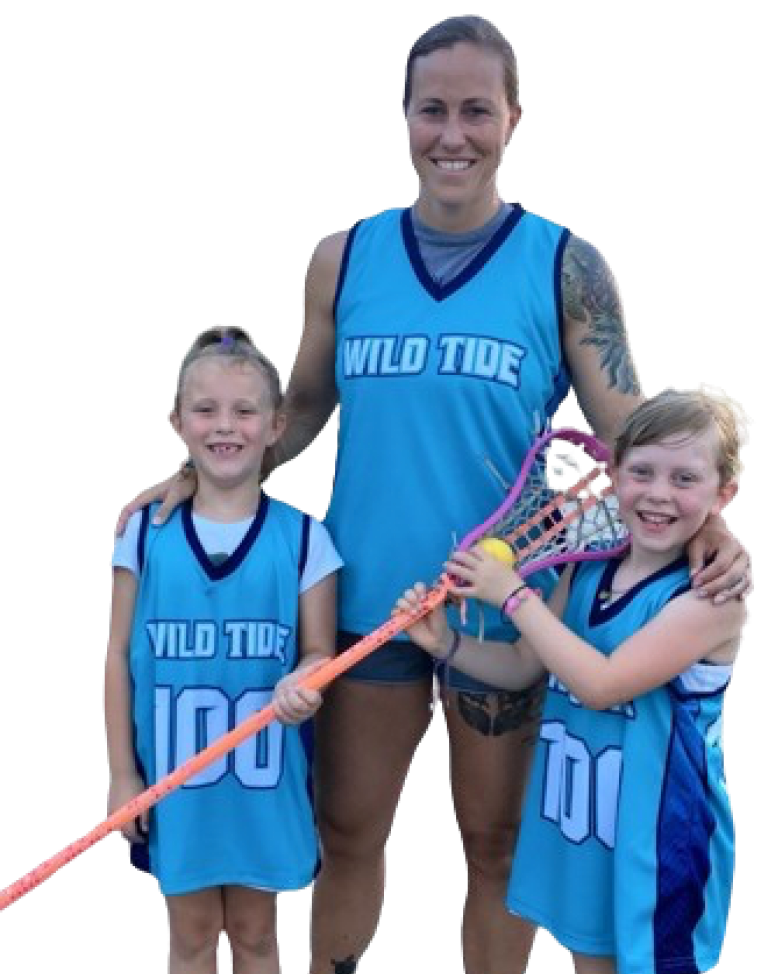
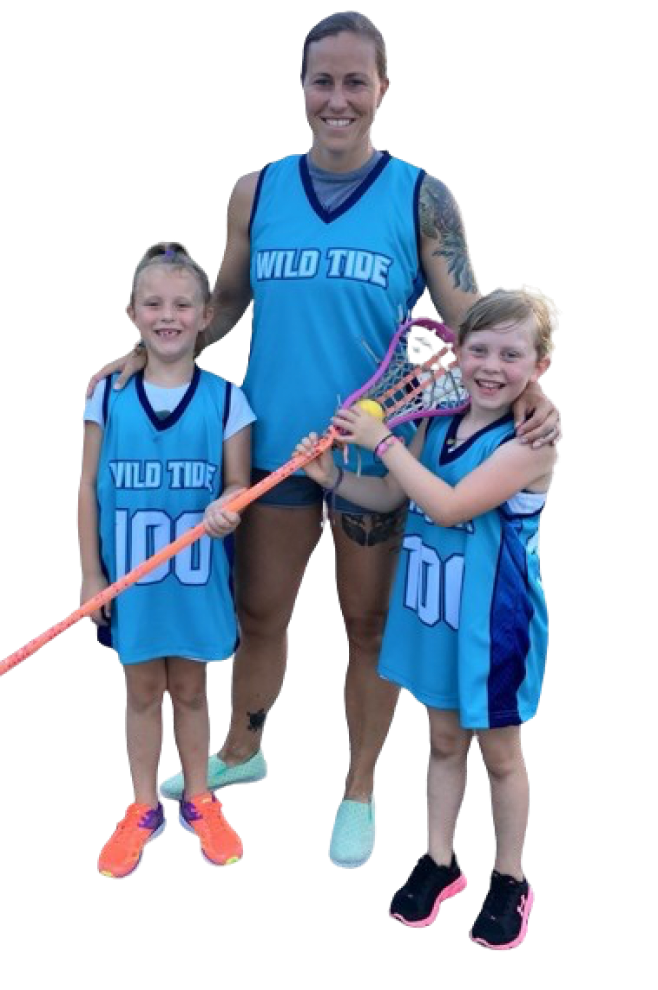
Updates
Correcting email address and replacing photos to full size

diff --git a/index.html b/index.html
@@ -269,9 +269,9 @@
 
             .findGirlsImage {
                 position: absolute;
-                height: 33vw;
-                left: 1vw;
-                top: 154vw;
+                height: 30vw;
+                left: 4.75vw;
+                top: 157vw;
 
             }
 
@@ -286,9 +286,9 @@
 
             .findBoysImage {
                 position: absolute;
-                width: 17.5vw;
-                left: 41.5vw;
-                top: 154.2vw;
+                width: 16vw;
+                left: 42vw;
+                top: 153.85vw;
 
             }
 
@@ -305,17 +305,17 @@
             .findDevImage {
                 position: absolute;
                 height: 32vw;
-                left: 72vw;
-                top: 155vw;
+                left: 73.5vw;
+                top: 156.1vw;
 
             }
 
             .boysFindButton {
                 position: absolute;
                 width: 20vw;
-                height: 4.7vw;
+                height: 3.5vw;
                 left: 38vw;
-                top: 149vw;
+                top: 150vw;
 
                 background: #071E5A;
                 border-radius: 10px;
@@ -324,7 +324,7 @@
                 font-style: normal;
                 font-weight: 600;
                 font-size: 1.5vw;
-                line-height: 3.5vw;
+                line-height: 3vw;
                 text-align: center;
 
                 color: #FFFFFF;
@@ -333,9 +333,9 @@
             .girlsFindButton {
                 position: absolute;
                 width: 20vw;
-                height: 4.7vw;
+                height: 3.5vw;
                 left: 7vw;
-                top: 149vw;
+                top: 150vw;
 
                 background: #071E5A;
                 border-radius: 10px;
@@ -344,7 +344,7 @@
                 font-style: normal;
                 font-weight: 600;
                 font-size: 1.5vw;
-                line-height: 3.5vw;
+                line-height: 3vw;
                 text-align: center;
 
                 color: #FFFFFF;
@@ -353,9 +353,9 @@
             .devFindButton {
                 position: absolute;
                 width: 20vw;
-                height: 4.7vw;
+                height: 3.5vw;
                 left: 70vw;
-                top: 149vw;
+                top: 150vw;
 
                 background: #071E5A;
                 border-radius: 10px;
@@ -364,7 +364,7 @@
                 font-style: normal;
                 font-weight: 600;
                 font-size: 1.5vw;
-                line-height: 3.5vw;
+                line-height: 3vw;
                 text-align: center;
 
                 color: #FFFFFF;
@@ -968,7 +968,7 @@
                 <img src="sarahsKitchenSponsor.png" class="sponsorSarahsKitchen">
             </a>
             <p class="sponsorContact">Interested in fundraising or donating to WildTide?<br/> 
-                Please reach out to our Fundraising Coordinator, <a href="mailto:Janet@bluecoastreality.com">Janet@bluecoastreality.com</a>
+                Please reach out to our Fundraising Coordinator, <a href="mailto:Janet@BlueCoastRealty.com">Janet@BlueCoastRealty.com</a>
             </p>
         </div>
         <div class="footerBar">

diff --git a/pinkOutPage.html b/pinkOutPage.html
@@ -327,7 +327,7 @@
             <img src="pinkOutHeroImageMobile.png" class="pinkOutHeroImageMobile">
         </div>
         <div>
-            <a href="mailto:Janet@bluecoastreality.com?subject=I want to help WildTide Fight Breast Cancer">
+            <a href="mailto:Janet@BlueCoastRealty.com?subject=I want to help WildTide Fight Breast Cancer">
                 <button class="pinkOutButton">HELP US FIGHT BREAST CANCER</button>
             </a>
             <img src="goingBeyondImage.png" class="goingBeyondImage">
@@ -358,7 +358,7 @@
                 Everyone is invited - players, coaches, families, community members, etc. <br/><br/>
                 Don't forget to WEAR PINK!<br/><br/>
                 Interested in fundraising or donating to this mission? <br/>
-                Please reach out to our Fundraising Coordinator, <a href="mailto:Janet@bluecoastreality.com">Janet@bluecoastreality.com</a>
+                Please reach out to our Fundraising Coordinator, <a href="mailto:Janet@BlueCoastRealty.com">Janet@BlueCoastRealty.com</a>
             </p>
         </div>
         <div class="footerBar">

diff --git a/torchRunPage.html b/torchRunPage.html
@@ -298,7 +298,7 @@
                 <br/><br/>Interested in Volunteering? 
                 <br/>Please reach out to Coach Rebecca, <a href="mailto:coachallen78@gmail.com">coachallen78@gmail.com</a>
                 <br/><br/>Interested in fundraising or donating to this mission?
-                <br/>Please reach out to our Fundraising Coordinator, <a href="mailto:janet@bluecoastreality.com">janet@bluecoastreality.com</a>
+                <br/>Please reach out to our Fundraising Coordinator, <a href="mailto:janet@BlueCoastRealty.com">janet@BlueCoastRealty.com</a>
             </p>
         </div>
         <div class="footer">
